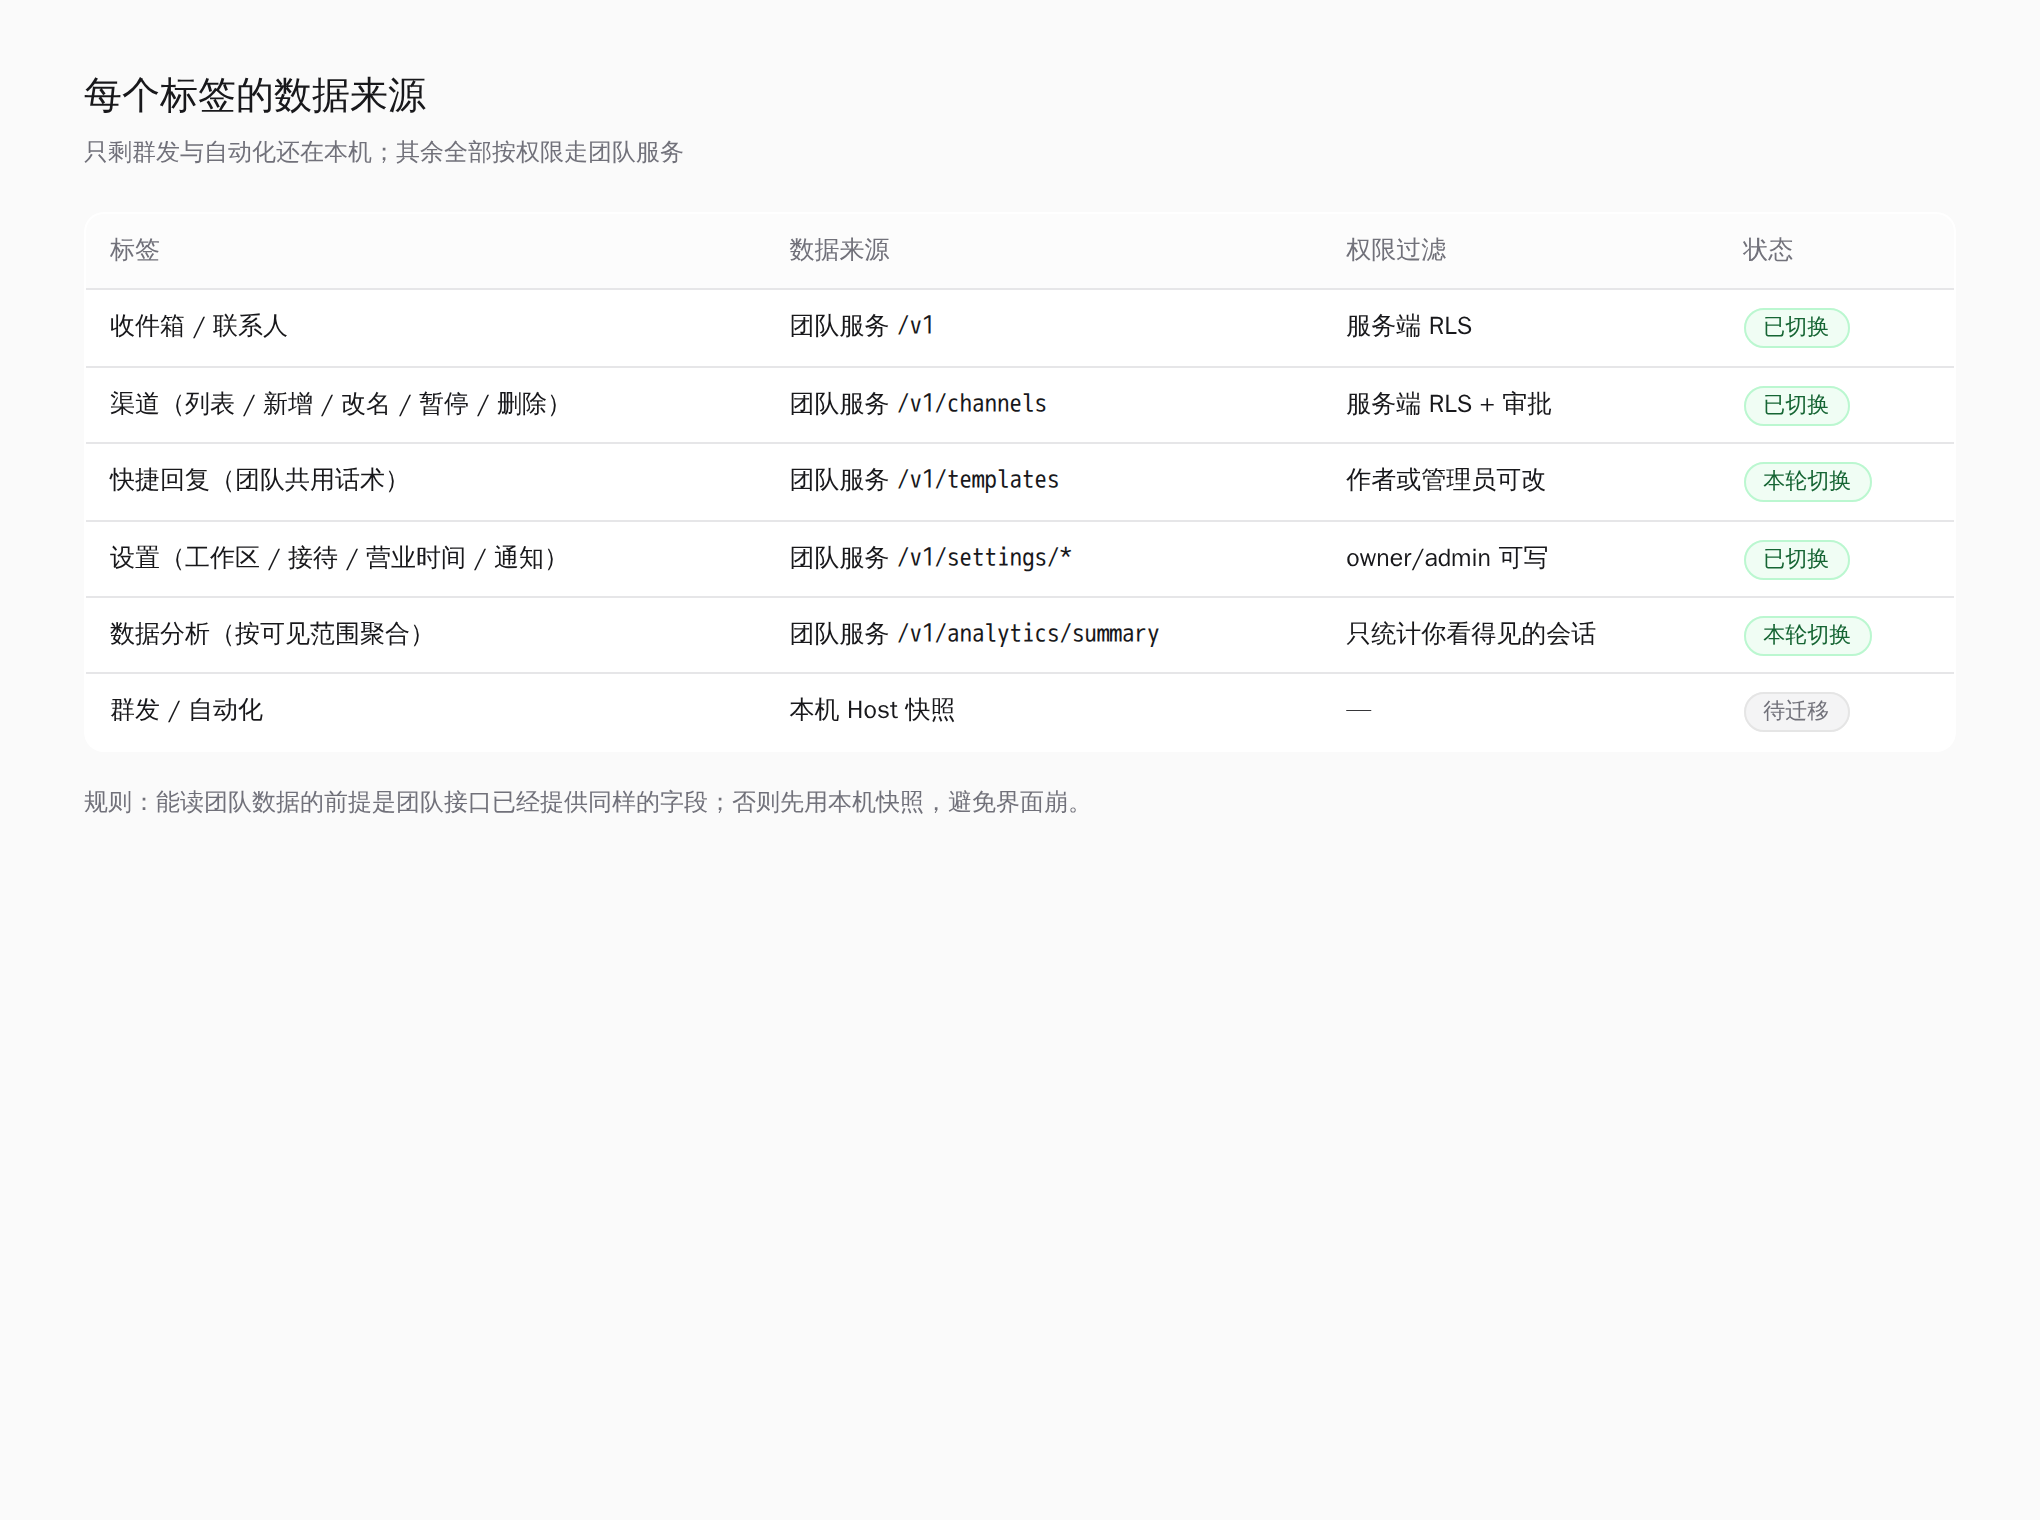
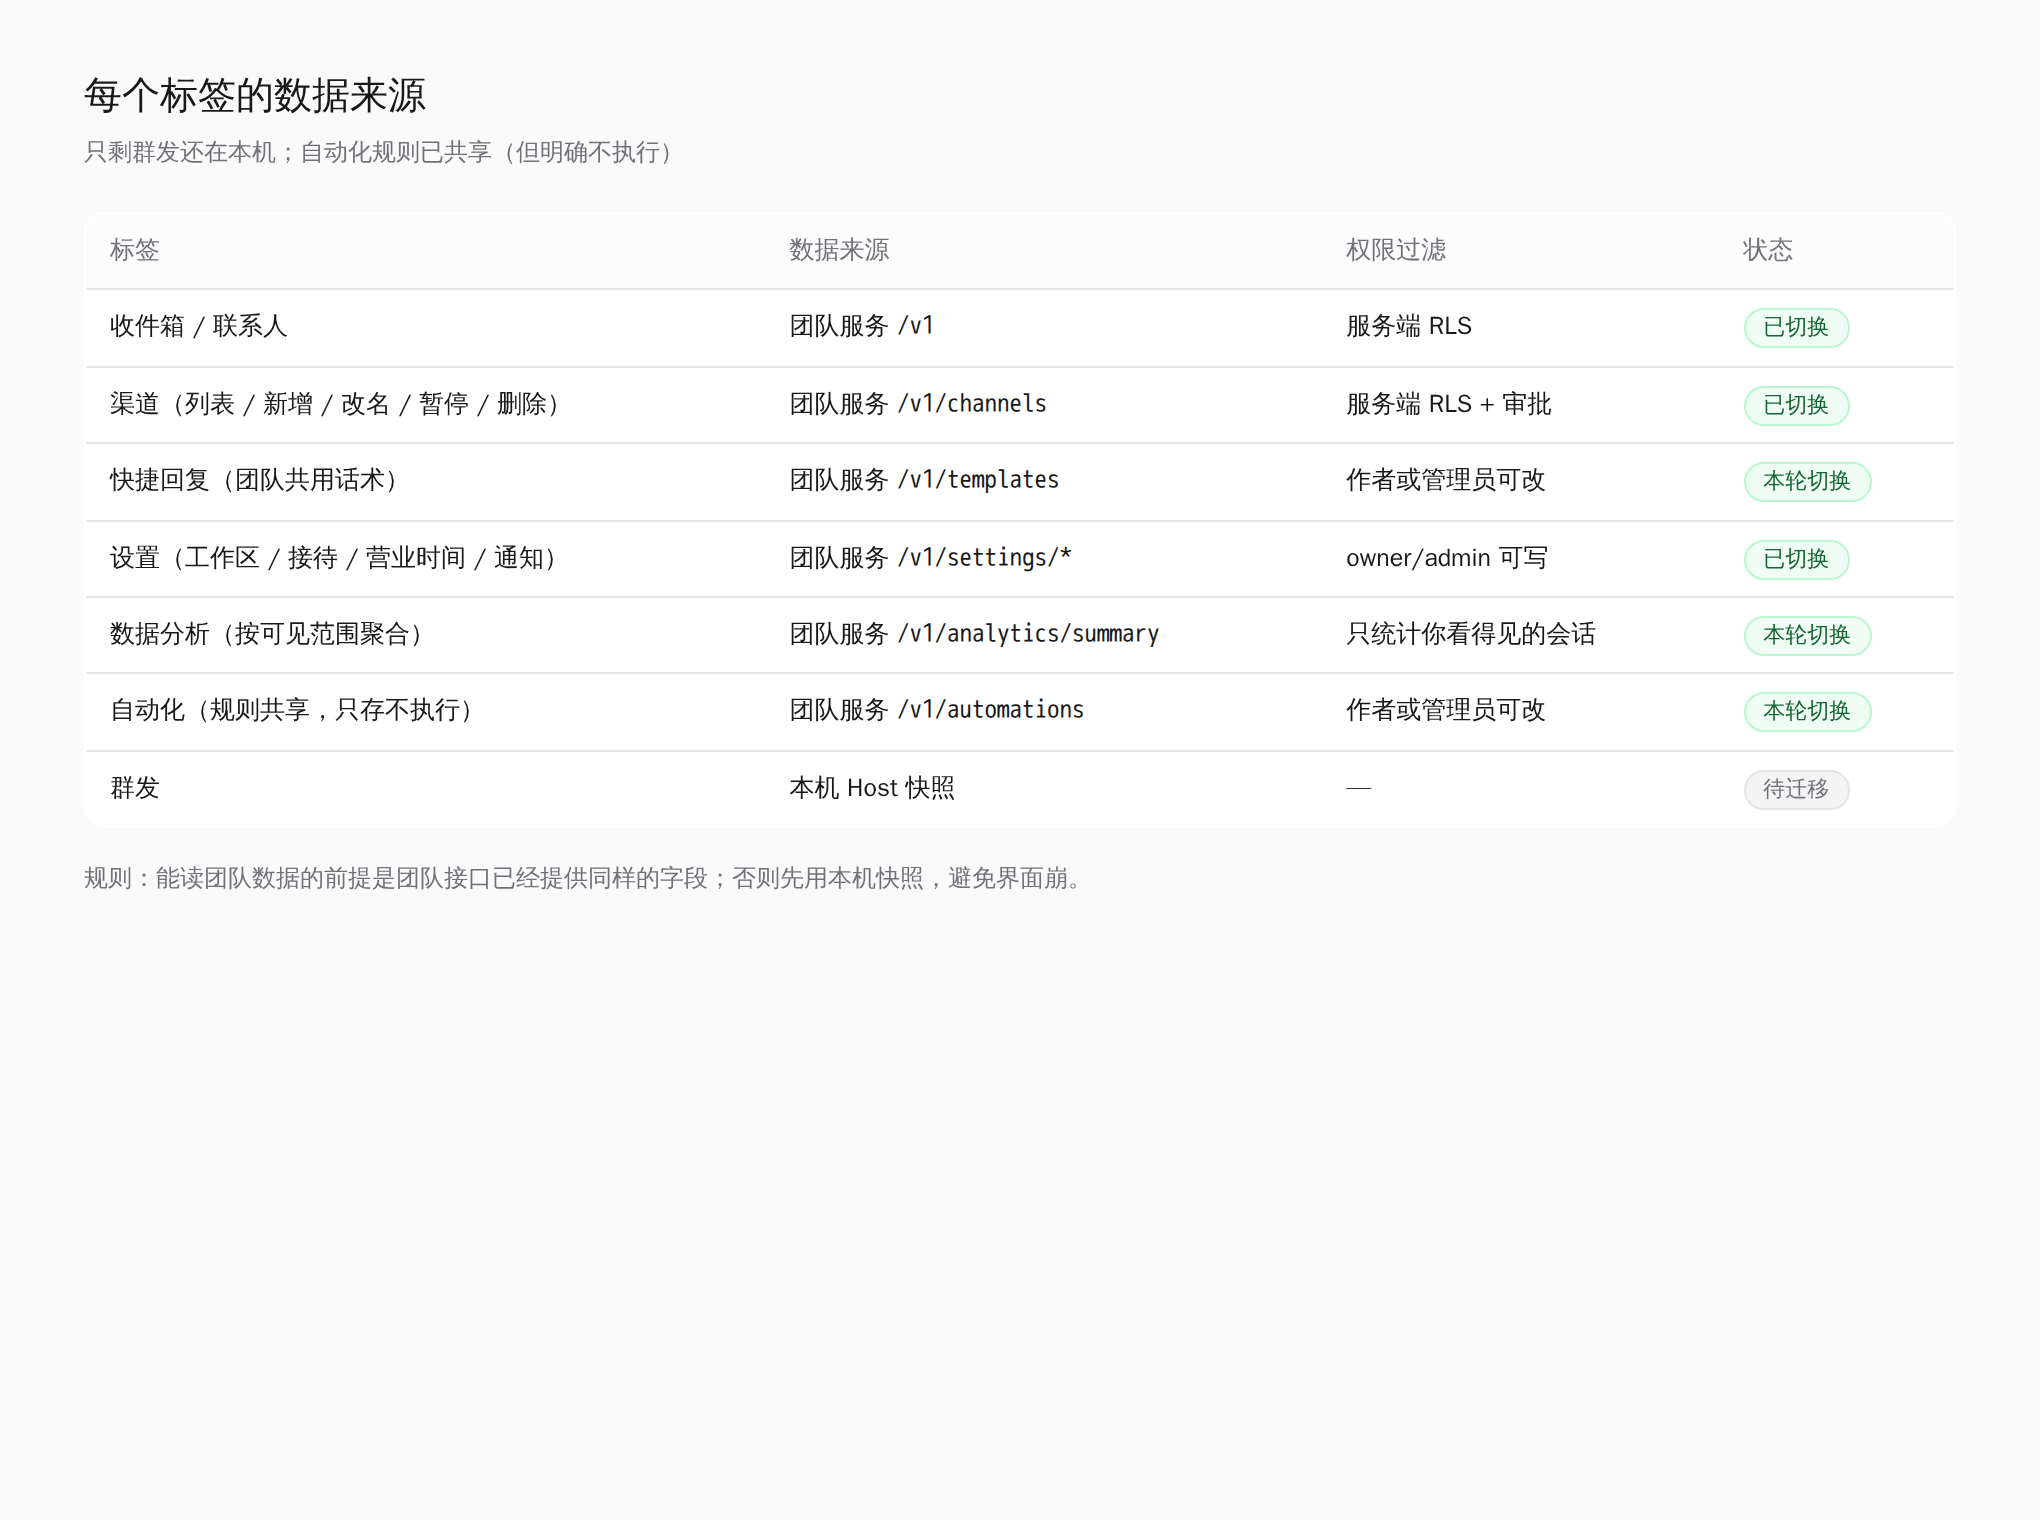
feat: shared automation rules, stored but never executed
- migration 021 automations table (tenant RLS); GET/POST/PATCH/DELETE
  /v1/automations with author-or-admin writes and audit
- every response states executes: false, and nothing touches a conversation: an
  execution engine needs trigger sources, idempotency keys, retries and a dry-run
  preview, which is its own project
- client: automation tab reads the team list; automation.create/update/delete map
  onto the API; adapters (lib + inline) gained the three methods with tests
- tests: shared visibility, another member's edit 403, author toggle, delete, and
  the executes:false contract (91 server, 81 plugin)
- docs §19 + refreshed data-source matrix

diff --git a/client.js b/client.js
@@ -5553,7 +5553,7 @@ window.__ModuleLoader__.load({
       return {
         async load(limits = {}) {
           const limit = Number(limits.limit ?? 30)
-          const [conversations, contacts, channels, settings, notify, templates, analytics] = await Promise.all([
+          const [conversations, contacts, channels, settings, notify, templates, analytics, automations] = await Promise.all([
             call(`/v1/conversations?limit=${limit}`),
             call('/v1/contacts'),
             call('/v1/channels'),
@@ -5561,6 +5561,7 @@ window.__ModuleLoader__.load({
             call('/v1/settings/notify').catch(() => ({ notify: {} })),
             call('/v1/templates').catch(() => ({ items: [] })),
             call('/v1/analytics/summary').catch(() => ({ summary: null })),
+            call('/v1/automations').catch(() => ({ items: [], executes: false })),
           ])
           const snapshot = {
             conversations: (conversations.items ?? []).map(toConversation),
@@ -5568,6 +5569,13 @@ window.__ModuleLoader__.load({
               id: row.id, name: row.name ?? '', handle: row.handle ?? '', phone: row.phone ?? '',
               tags: Array.isArray(row.tags) ? row.tags : [], channelId: row.channel_id ?? null,
             })),
+            automations: (automations.items ?? []).map((row) => ({
+              id: row.id, name: row.name ?? '', enabled: row.enabled === true, trigger: row.trigger ?? 'message',
+              keyword: row.keyword ?? '', channelId: row.channel_id ?? null, contactTag: row.contact_tag ?? '',
+              priority: row.priority ?? 'normal', actions: Array.isArray(row.actions) ? row.actions : [],
+              ownerId: row.owner_user_id ?? null,
+            })),
+            automationRuns: false,
             analytics: analytics.summary ?? {
               generatedAt: new Date().toISOString(),
               totals: { open: 0, awaiting: 0, breached: 0, resolvedToday: 0, contacts: 0, messages7d: 0, avgFirstResponseSeconds: 0, avgResolutionSeconds: 0 },
@@ -5629,6 +5637,19 @@ window.__ModuleLoader__.load({
         async send(conversationId, body) {
           const result = await call('/v1/messages', { method: 'POST', body: { conversationId, body } })
           return result.message ?? null
+        },
+        async createAutomation(input) {
+          return call('/v1/automations', { method: 'POST', body: input })
+        },
+        async updateAutomation(automationId, fields) {
+          const body = {}
+          for (const key of ['name', 'enabled', 'trigger', 'keyword', 'channelId', 'contactTag', 'priority', 'actions']) {
+            if (fields[key] !== undefined) body[key] = fields[key]
+          }
+          return call(`/v1/automations/${automationId}`, { method: 'PATCH', body })
+        },
+        async deleteAutomation(automationId) {
+          return call(`/v1/automations/${automationId}`, { method: 'DELETE' })
         },
         async createTemplate(input) {
           return call('/v1/templates', { method: 'POST', body: { name: input.name, shortcut: input.shortcut ?? '', body: input.body } })
@@ -5696,6 +5717,13 @@ window.__ModuleLoader__.load({
             automations: [],
             broadcasts: [],
             events: [],
+            automations: (automations.items ?? []).map((row) => ({
+              id: row.id, name: row.name ?? '', enabled: row.enabled === true, trigger: row.trigger ?? 'message',
+              keyword: row.keyword ?? '', channelId: row.channel_id ?? null, contactTag: row.contact_tag ?? '',
+              priority: row.priority ?? 'normal', actions: Array.isArray(row.actions) ? row.actions : [],
+              ownerId: row.owner_user_id ?? null,
+            })),
+            automationRuns: false,
             analytics: analytics.summary ?? {
               generatedAt: new Date().toISOString(),
               totals: { open: 0, awaiting: 0, breached: 0, resolvedToday: 0, contacts: 0, messages7d: 0, avgFirstResponseSeconds: 0, avgResolutionSeconds: 0 },
@@ -5742,6 +5770,9 @@ window.__ModuleLoader__.load({
           await inbox.updateWorkspace(rest)
           return { ok: true }
         }
+        if (name === 'automation.create') return inbox.createAutomation(payload)
+        if (name === 'automation.update') return inbox.updateAutomation(payload.automationId, payload)
+        if (name === 'automation.delete') return inbox.deleteAutomation(payload.automationId)
         if (name === 'template.create') return inbox.createTemplate(payload)
         if (name === 'template.update') return inbox.updateTemplate(payload.templateId, payload)
         if (name === 'template.delete') return inbox.deleteTemplate(payload.templateId)
@@ -5978,7 +6009,7 @@ window.__ModuleLoader__.load({
 
       // Inbox and contacts read the team service (already permission-filtered);
       // the other tabs still read the local Host workspace until they migrate.
-      const active = ['inbox', 'contacts', 'channels', 'templates', 'settings', 'analytics'].includes(tab) ? teamWorkspace : hostWorkspace
+      const active = ['inbox', 'contacts', 'channels', 'templates', 'settings', 'analytics', 'automation'].includes(tab) ? teamWorkspace : hostWorkspace
 
       if (active.loading) {
         return h('div', { className: 'imoRoot' },

diff --git a/test/team-inbox.test.js b/test/team-inbox.test.js
@@ -134,3 +134,18 @@ test('template writes go to the team template endpoints', async () => {
   assert.deepEqual(calls[1].init.body, { name: '退款进度（新）' })
   assert.equal(calls[2].init.method, 'DELETE')
 })
+
+test('automation writes go to the team rule endpoints', async () => {
+  const { call, calls } = transport({
+    'POST /v1/automations': { status: 201, body: { automation: { id: 'a1' } } },
+    'PATCH /v1/automations/a1': { status: 200, body: { automation: { id: 'a1' } } },
+    'DELETE /v1/automations/a1': { status: 200, body: { deleted: 'a1' } },
+  })
+  const inbox = createTeamInbox({ call, token: 't' })
+  await inbox.createAutomation({ name: '退款转人工', actions: [{ type: 'assign' }] })
+  await inbox.updateAutomation('a1', { enabled: false, ignored: true })
+  await inbox.deleteAutomation('a1')
+  assert.equal(calls[0].init.body.name, '退款转人工')
+  assert.deepEqual(calls[1].init.body, { enabled: false })
+  assert.equal(calls[2].init.method, 'DELETE')
+})

diff --git a/test/tab-source.test.js b/test/tab-source.test.js
@@ -9,8 +9,8 @@ import { readFile } from 'node:fs/promises'
 
 const source = await readFile(new URL('../client.js', import.meta.url), 'utf8')
 
-test('App picks the team workspace for inbox, contacts, channels, templates, settings and analytics', () => {
-  assert.match(source, /const active = \['inbox', 'contacts', 'channels', 'templates', 'settings', 'analytics'\]\.includes\(tab\) \? teamWorkspace : hostWorkspace/)
+test('App picks the team workspace for inbox, contacts, channels, templates, settings, analytics and automation', () => {
+  assert.match(source, /const active = \['inbox', 'contacts', 'channels', 'templates', 'settings', 'analytics', 'automation'\]\.includes\(tab\) \? teamWorkspace : hostWorkspace/)
 })
 
 test('the login gate is checked before any workspace loading state', () => {

diff --git a/docs/ARCHITECTURE.md b/docs/ARCHITECTURE.md
@@ -291,3 +291,21 @@ core 可以原样抽走。
 - 真实调用核对（demo 租户）：`totals.open=4, contacts=4, messages7d=21`，7 天序列，2 个渠道。
 
 截图：`docs/analytics-team.png`、`docs/tab-data-sources.png`。
+
+### 19. 自动化规则迁到团队服务（只存储，不执行）
+
+本轮明确只做一件事：**规则成为团队资产**，但**不动任何客户会话**。
+
+| 能力 | 接口 | 规则 |
+| --- | --- | --- |
+| 列表 | `GET /v1/automations` | 团队共享；响应带 `executes: false` |
+| 新增 | `POST /v1/automations` | 任何成员可建；空名 422 |
+| 修改 / 删除 | `PATCH·DELETE /v1/automations/{id}` | 作者或 owner/admin，否则 403 |
+| 审计 | `automation.create/update/delete` | 同事务 |
+
+**为什么不做执行器**：自动化一旦跑起来会改会话状态（转人工、打标签、静默），
+错一条规则就会影响真实客户。所以先让规则可协作、可审阅，执行引擎单独排期
+（需要：触发事件来源、幂等键、失败重试、干跑预览）。
+
+- 客户端 `automation.*` 命令映射到上述接口；`snapshot.automations` 来自团队数据。
+- 测试：共享可见、他人修改 403、作者可改、删除后消失、`executes:false`（isolation 27 条）。

diff --git a/docs/API-v1.md b/docs/API-v1.md
@@ -17,6 +17,7 @@
 | 切换租户 | `POST /v1/auth/switch` | ✅ 已实现 |
 | 我的信息 | `GET /v1/me` | ✅ 已实现 |
 | 管理页 | `GET /admin` | ✅ 已实现（团队权限分配，登录后按员工勾选可见号码） |
+| 自动化规则 | `GET /v1/automations`、`POST /v1/automations`、`PATCH /v1/automations/{id}`、`DELETE /v1/automations/{id}` | ✅ 已实现（团队共享；**只存储不执行**） |
 | 数据分析 | `GET /v1/analytics/summary` | ✅ 已实现（按成员可见范围聚合） |
 | 快捷回复 | `GET /v1/templates`、`POST /v1/templates`、`PATCH /v1/templates/{id}`、`DELETE /v1/templates/{id}` | ✅ 已实现（团队共用；作者或管理员可改） |
 | 租户 / 成员 | `POST /v1/tenants`、`GET /v1/tenants/{id}/members`、`PATCH /v1/tenants/{id}/members/{userId}`、`DELETE /v1/tenants/{id}/members/{userId}`、`GET /v1/tenants/{id}/audit`、`GET /v1/tenants/{id}/audit.csv`、`GET /v1/tenants/{id}/approvals`、`POST /v1/tenants/{id}/approvals/{approvalId}` | ✅ 已实现（PATCH 分配可见范围/角色并写审计；`dataScope=all` 或改 `role` 必须带 `confirmEmail`；DELETE 移除成员（需 `confirmEmail`）；audit 支持 before 游标） |
